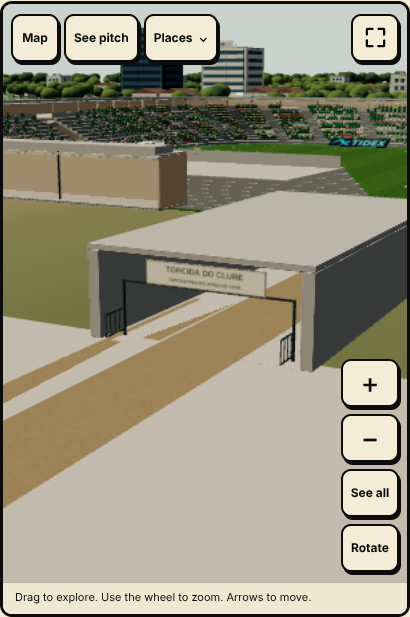
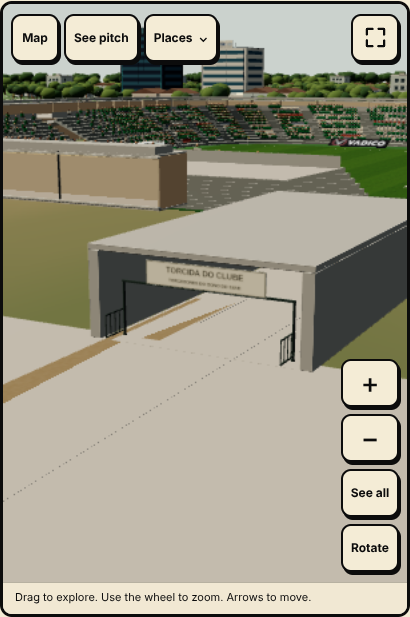
Mapa: onde a obra já chegou, o cimento passa POR CIMA do caminho de terra (sem listra)
Claude-Session: https://claude.ai/code/session_012GPrTDbpvrApA6DArkzCpE

diff --git a/src/escalacao/presidencia-complexo-entorno.ts b/src/escalacao/presidencia-complexo-entorno.ts
@@ -431,9 +431,10 @@ export function criarEntornoComplexo(scene:THREE.Scene, state:EstadoComplexo,onR
 
   const routeSurface=state.extras.asfalto?paving:dirt
   // 🧱 04/11 (Diego: *"esse caminho marrom misturado com cimento tá estranho"*): o caminho de TERRA ficava na MESMA altura da calçada de
-  // cimento que cruza ele, e a placa de vídeo pintava os dois em listras ("briga de piso"). A terra agora fica 2 cm ACIMA: o caminho
-  // aparece inteiro e limpo, sem listra. (Com o asfalto comprado os dois são cimento e a altura é a de sempre.)
-  const routeY=state.extras.asfalto?GROUND:GROUND+.02
+  // cimento que cruza ele, e a placa de vídeo pintava os dois em listras ("briga de piso"). A terra fica 2,5 cm ABAIXO: onde já tem
+  // cimento (o estádio evoluiu), o cimento passa por cima, limpo — a terra só aparece onde ainda não chegou obra (Diego: *"se tem
+  // cimento agora que evoluiu, não deveria tá o cimento em cima?"*). (Com o asfalto comprado os dois são cimento e a altura é a de sempre.)
+  const routeY=state.extras.asfalto?GROUND:GROUND-.025
   // These public paths remain at street level at every stadium stage.
   // They share the physical gate contract, not the old office driveway.
   for(const [side,points] of Object.entries(fanPaths))ribbon(`acesso-torcida-${side}`,points,4.4,routeY,routeSurface)

diff --git a/docs/pendencias.md b/docs/pendencias.md
@@ -12086,6 +12086,10 @@ andando); torcida, dia de jogo e o jogo continuam. E entrou o **🩺 diagnóstic
 quadros por segundo (verde ≥25 · amarelo 15–24 · vermelho <15) e, se o navegador estiver SEM placa de vídeo (aceleração de hardware
 desligada), um aviso vermelho com o caminho no Chrome. Pedir print dessa linha pro Diego pra saber o que o PC dele é.
 - 04/11 (print do celular dele): o caminho de TERRA da torcida brigava com a calçada de cimento na mesma altura (listras) → a terra
-  sobe 2 cm (`routeY`, presidencia-complexo-entorno.ts; com asfalto comprado nada muda). E os botões de qualidade + diagnóstico saíram de
+  desce 2,5 cm e o CIMENTO passa por cima onde a obra já chegou (*"se tem cimento agora que evoluiu, não deveria tá o cimento em cima?"*) (`routeY`, presidencia-complexo-entorno.ts; com asfalto comprado nada muda). E os botões de qualidade + diagnóstico saíram de
   cima do mapa (ficavam embaixo do "Controles" no celular) e foram pro topo do menu "Locais"; o aviso de queda pro Leve é um toast no alto.
   O celular dele: Adreno 830, 30 quadros/s (o máximo do celular, de propósito) — ótimo. Falta o print do PC.
+- 04/11 PRINT DO PC DELE: "Microsoft Basic Render Driver" · 2 quadros/s → o PC está SEM placa de vídeo pro navegador (aceleração de
+  hardware desligada no Chrome, ou Windows sem o driver de vídeo instalado, ou acesso por área de trabalho remota). Não é o jogo:
+  qualquer 3D roda a ~2 q/s assim. Caminho passado pra ele: chrome://settings/system → ligar aceleração → reabrir; conferir em chrome://gpu;
+  se continuar "Basic Render", instalar/atualizar o driver de vídeo (Windows Update / Gerenciador de Dispositivos › Adaptadores de vídeo).
